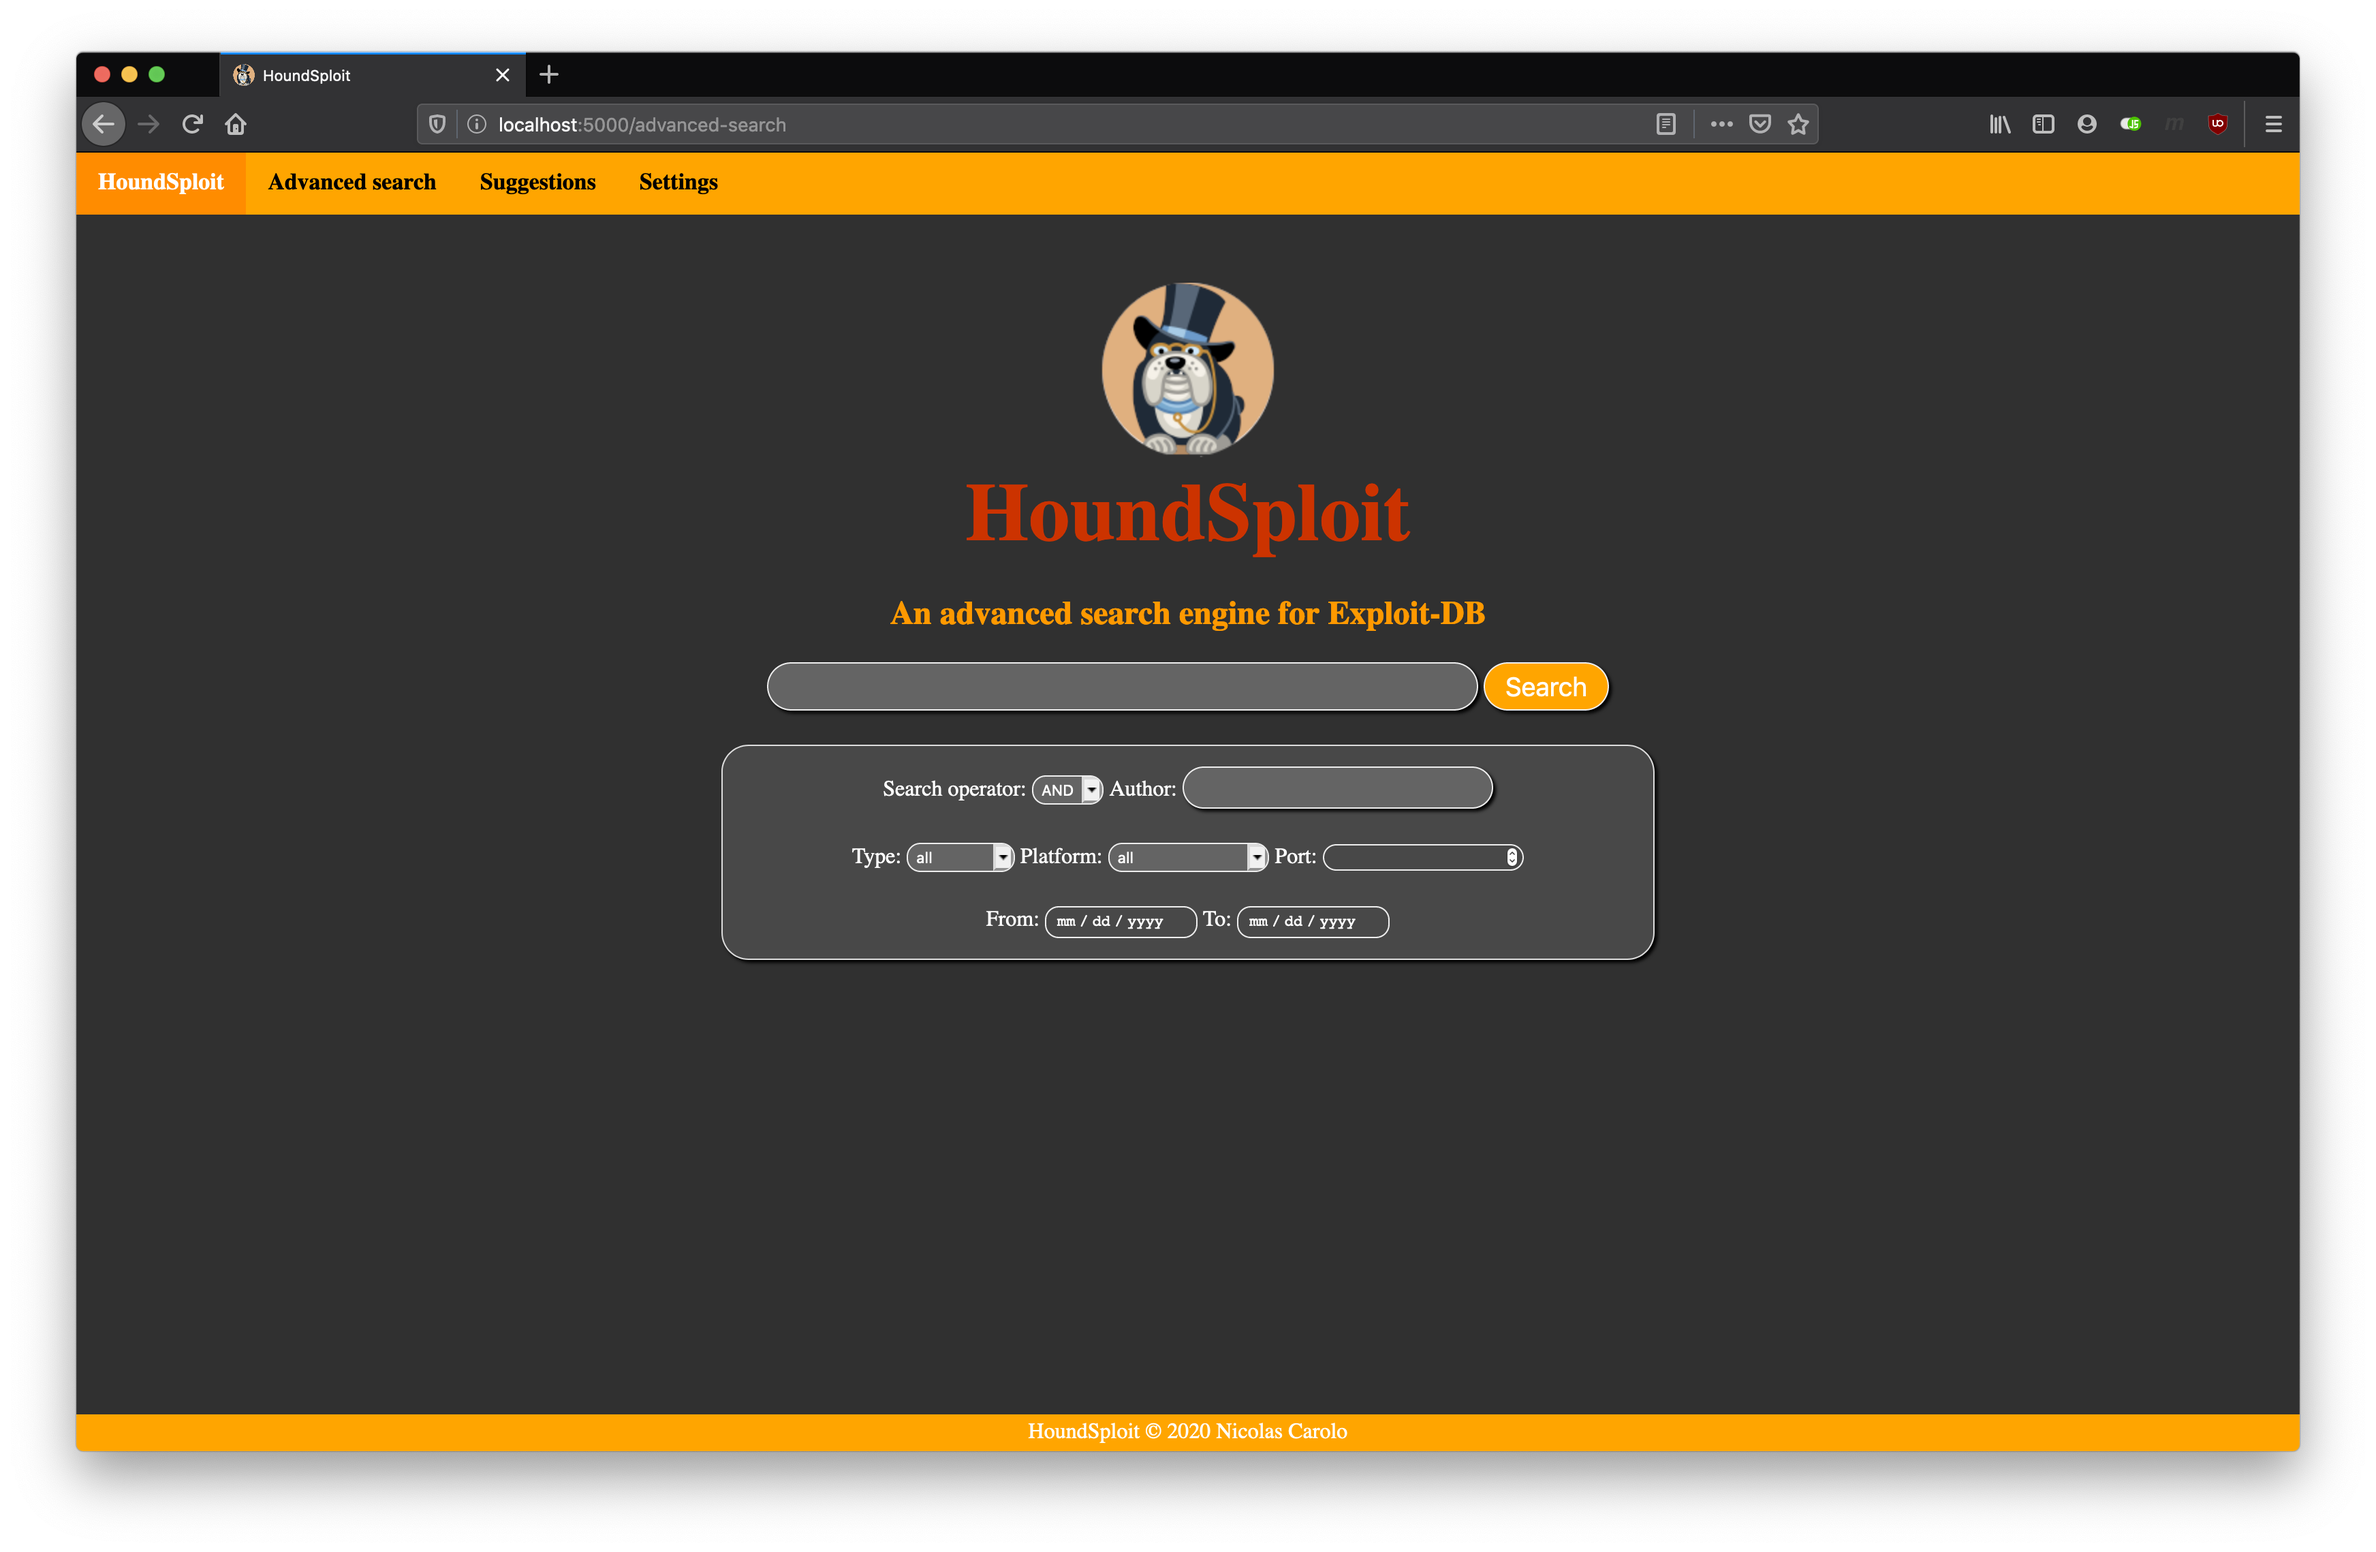
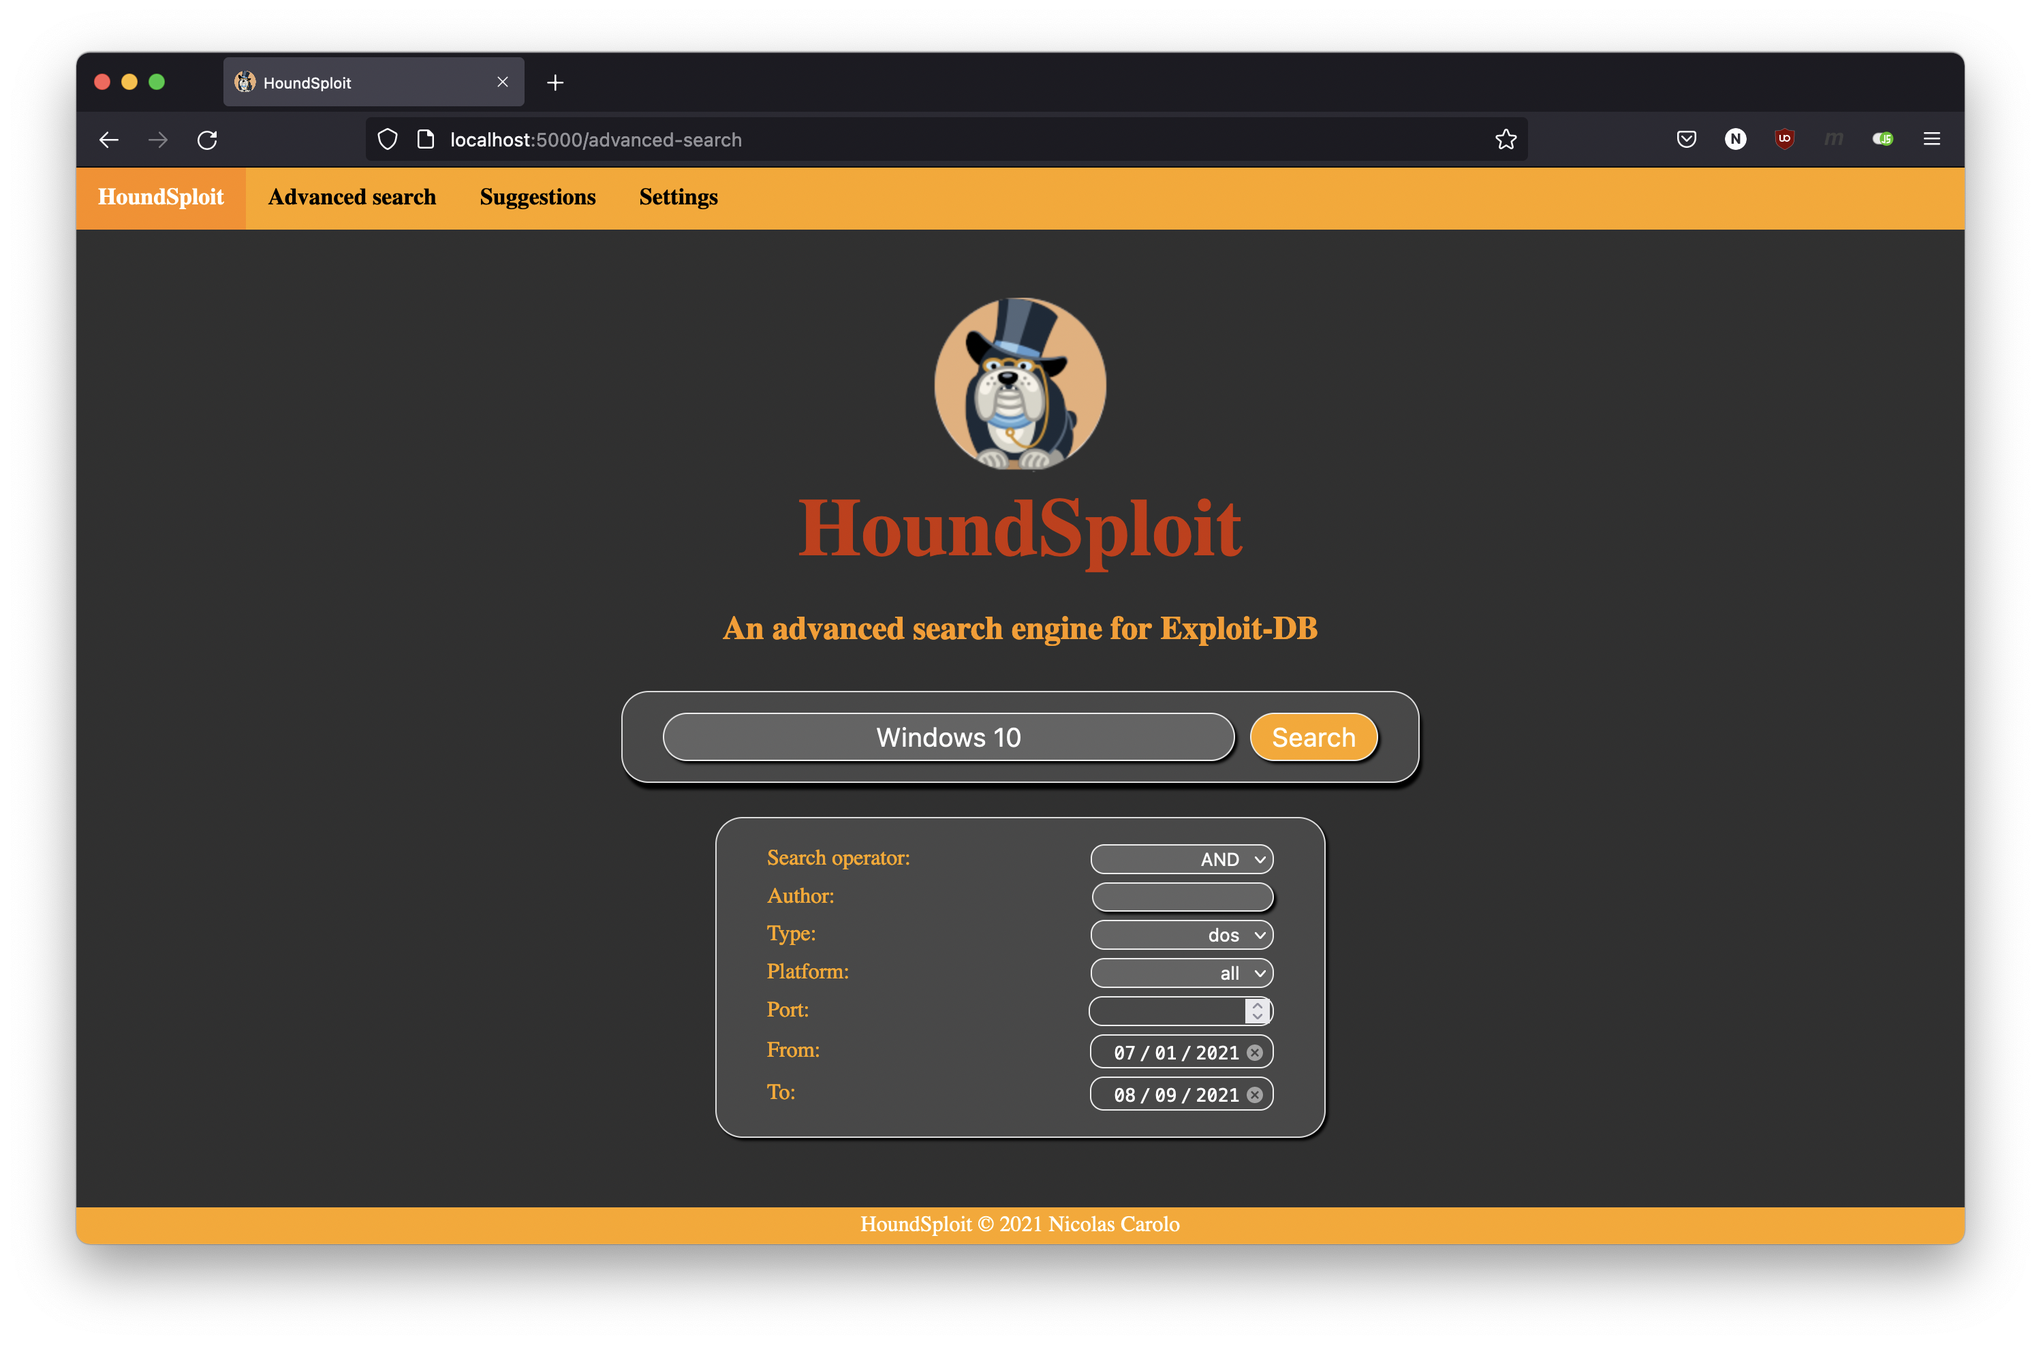
2.5.0: new layout for filters container and searchbox

Changed region(s): [[0.031, 0.0309, 0.9933, 0.958]]

diff --git a/HoundSploit/templates/base_advanced_searcher.html b/HoundSploit/templates/base_advanced_searcher.html
@@ -5,16 +5,18 @@
 {% endblock %}
 {% block input_form %}
     <form action="/advanced-search" method="POST" id="searcher-form" name="searcher-form" onsubmit="resetPages()">
-        {% if searched_text %}
-            <input type="text" id="searched-text" name="searched-text" value="{{ searched_text }}">
-        {% else %}
-            <input type="text" id="searched-text" name="searched-text">
-        {% endif %}
-        <input type="hidden" id="hid-e-page" name="hid-e-page" value="{{ current_exploits_page }}">
-        <input type="hidden" id="hid-s-page" name="hid-s-page" value="{{ current_shellcodes_page }}">
-        <input type="hidden" id="current-view" name="current-view" value="">
-        <input type="hidden" id="sorting-type" name="sorting-type" value="{{ sorting_type }}">
-        <input type="submit" id="search-button" name="search-button" value="Search">
+        <div class="div-searcher" id="div-searcher" name="div-searcher"">
+            {% if searched_text %}
+                <input type="text" id="searched-text" name="searched-text" value="{{ searched_text }}">
+            {% else %}
+                <input type="text" id="searched-text" name="searched-text">
+            {% endif %}
+            <input type="hidden" id="hid-e-page" name="hid-e-page" value="{{ current_exploits_page }}">
+            <input type="hidden" id="hid-s-page" name="hid-s-page" value="{{ current_shellcodes_page }}">
+            <input type="hidden" id="current-view" name="current-view" value="">
+            <input type="hidden" id="sorting-type" name="sorting-type" value="{{ sorting_type }}">
+            <input type="submit" id="search-button" name="search-button" value="Search">
+        </div>
         <div class="filters-container">
             <table class="filters-table">
                 <tr>

diff --git a/HoundSploit/static/css/light-theme/base_searcher.css b/HoundSploit/static/css/light-theme/base_searcher.css
@@ -1,13 +1,13 @@
 input[type=text] {
     text-align: center;
     font-size: 1.2em;
-    width: 30%;
-    margin-bottom: 15px;
+    width: 67%;
+    margin: auto 7px auto auto;
     background-color: white;
     border: 1px solid lightgray;
     color: #000000;
     border-radius: 20px;
-    box-shadow: 5px 5px 5px #EEEEEE;
+    box-shadow: 2px 2px 2px #C1C1C1;
     padding: 5px 15px 5px;
 }
 
@@ -18,7 +18,7 @@ input[type=submit] {
     color: #FFFFFF;
     border: 1px solid #eee;
     border-radius: 20px;
-    box-shadow: 5px 5px 5px #EEEEEE;
+    box-shadow: 2px 2px 2px #C1C1C1;
     text-shadow:none;
     padding: 5px 15px 5px;
 }
@@ -55,4 +55,15 @@ div.sort-container option {
 
 div.sort-container label {
     color: black;
+}
+
+div.div-searcher {
+    background-color: #EEEEEE;
+    text-align: center;
+    width: 40%;
+    margin: 30px auto 25px;
+    padding: 15px 15px 15px;
+    border: 1px solid #DDDDDD;
+    border-radius: 20px;
+    box-shadow: 5px 5px 5px #EEEEEE;
 }

diff --git a/HoundSploit/static/css/dark-theme/base_searcher.css b/HoundSploit/static/css/dark-theme/base_searcher.css
@@ -1,8 +1,8 @@
 input[type=text] {
     text-align: center;
     font-size: 1.2em;
-    width: 30%;
-    margin-bottom: 15px;
+    width: 70%;
+    margin: auto 7px auto auto;
     background-color: #646464;
     border: 1px solid #eeeeee;
     color: #ffffff;
@@ -55,4 +55,15 @@ div.sort-container option {
 
 div.sort-container label {
     color: white;
+}
+
+div.div-searcher {
+    background-color: #484848;
+    text-align: center;
+    width: 40%;
+    margin: 30px auto 25px;
+    padding: 15px 15px 15px;
+    border: 1px solid #DDDDDD;
+    border-radius: 20px;
+    box-shadow: 2px 5px 2px black;
 }

diff --git a/HoundSploit/templates/base_searcher.html b/HoundSploit/templates/base_searcher.html
@@ -3,7 +3,7 @@
     <script>getTheme("base_searcher.css")</script>
 {% endblock %}
 {% block input_form %}
-    <div id="div-searcher" name="div-searcher" onsubmit="resetPages()">
+    <div class="div-searcher" id="div-searcher" name="div-searcher" onsubmit="resetPages()">
         <form action="/" method="POST" id="searcher-form" name="searcher-form">
             {% if searched_text %}
                 <input type="text" id="searched-text" name="searched-text" value="{{ searched_text }}">

diff --git a/HoundSploit/templates/results_table.html b/HoundSploit/templates/results_table.html
@@ -79,7 +79,7 @@
         {% endif %}
         {% if shellcodes_list|length > 0 %}
             <a name="shellcodes_list"><h2 class="vulnerability_type">Shellcodes</h2></a>
-            <table>
+            <table class="results-table">
                 <tr class="results-table">
                     <th class="file">File</th>
                     <th class="description">Description</th>

diff --git a/HoundSploit/app.py b/HoundSploit/app.py
@@ -23,10 +23,8 @@ if platform.system == "Windows":
     static_folder = os.path.abspath(init_path + '\houndsploit\HoundSploit\static')
 else:
     init_path = os.path.expanduser("~") + "/.HoundSploit"
-    # template_dir = os.path.abspath(init_path + '/houndsploit/HoundSploit/templates')
-    # static_folder = os.path.abspath(init_path + '/houndsploit/HoundSploit/static')
[1 lines of base64/hex data omitted]
-    static_folder = '/Users/nicolas/Projects/Python/houndsploit/HoundSploit/static'
+    template_dir = os.path.abspath(init_path + '/houndsploit/HoundSploit/templates')
+    static_folder = os.path.abspath(init_path + '/houndsploit/HoundSploit/static')
 app = Flask(__name__, template_folder=template_dir, static_folder=static_folder)
 
 N_RESULTS_FOR_PAGE = 10

diff --git a/README.md b/README.md
@@ -4,7 +4,7 @@
 
 Author: Nicolas Carolo <nicolascarolo.dev@gmail.com>
 
-Copyright: © 2020, Nicolas Carolo.
+Copyright: © 2021, Nicolas Carolo.
 
 Date: 2021-08-09
 
@@ -29,7 +29,7 @@ the most accurate search results.
 * Highlighting of searched words in search results
 * Check for updates (both for software and database)
 
-#### News in HoundSploit 2
+#### New features in HoundSploit 2
 * Flask instead of Django
 * SQLAlchemy instead of Django ORM
 * The kernel of the search engine is the same used in [_hsploit_](https://github.com/nicolas-carolo/hsploit), which is the CLI version of HoundSploit
@@ -45,7 +45,7 @@ the most accurate search results.
 
 ##### Example II
 
-15 exploits and 0 shellcodes found for "Linux Kernel 4.2.3"
+16 exploits and 0 shellcodes found for "Linux Kernel 4.2.3"
 
 ![Search example 2](/img/example-2.png)
 
@@ -129,8 +129,8 @@ In order to install _HoundSploit_ we have to run the following commands:
 $ git clone https://github.com/nicolas-carolo/houndsploit
 $ cd houndsploit
 $ ./install_db_darwin.sh
-$ pip install -r requirements.txt
-$ python setup.py install
+$ pip3 install -r requirements.txt
+$ python3 setup.py install
 ```
 Now you can remove the repository of _HoundSploit_ you have downloaded, because this repository has been cloned in `~/.HoundSploit/houndsploit` for supporting automatic updates.
 If you have already installed the version 2.1.0 of _hsploit_ or you never installed _hsploit_, you can check if there is the directory `~/HoundSploit` and then you can delete it.
@@ -164,7 +164,7 @@ and then repeat the installation phase.
 
 ## COPYRIGHT
 
-Copyright © 2020, Nicolas Carolo.
+Copyright © 2021, Nicolas Carolo.
 All rights reserved.
 
 Redistribution and use in source and binary forms, with or without
